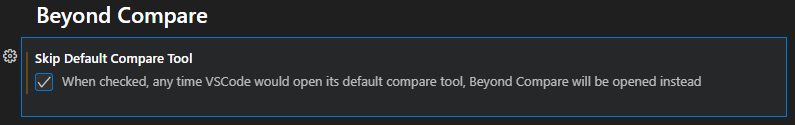
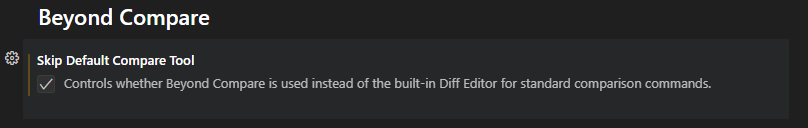
Further README changes

diff --git a/README.md b/README.md
@@ -16,7 +16,7 @@ This extension allows you to open Beyond Compare directly from VSCode in several
     - [Compare to clipboard](#compare-to-clipboard)
     - [Open Beyond Compare from Diff Editor](#open-beyond-compare-from-diff-editor)
 - [Settings](#settings)
-    - [Automatically open Beyond Compare](#automatically-open-beyond-compare)
+    - [Replace Diff Editor](#replace-diff-editor)
 - [Requirements](#requirements)
 
 ---
@@ -92,10 +92,10 @@ There is also a [setting](#settings) to automatically open BC whenever a compari
 
 ## Settings
 
-### Automatically open Beyond Compare
+### Replace Diff Editor
 Use this setting to skip VSCode's built-in Diff Editor and go straight to Beyond Compare.
 
-![Automatically open Beyond Compare](images/AutoOpenBCSetting.PNG)
+![Replace Diff Editor](images/AutoOpenBCSetting.PNG)
 
 ## Requirements
 
